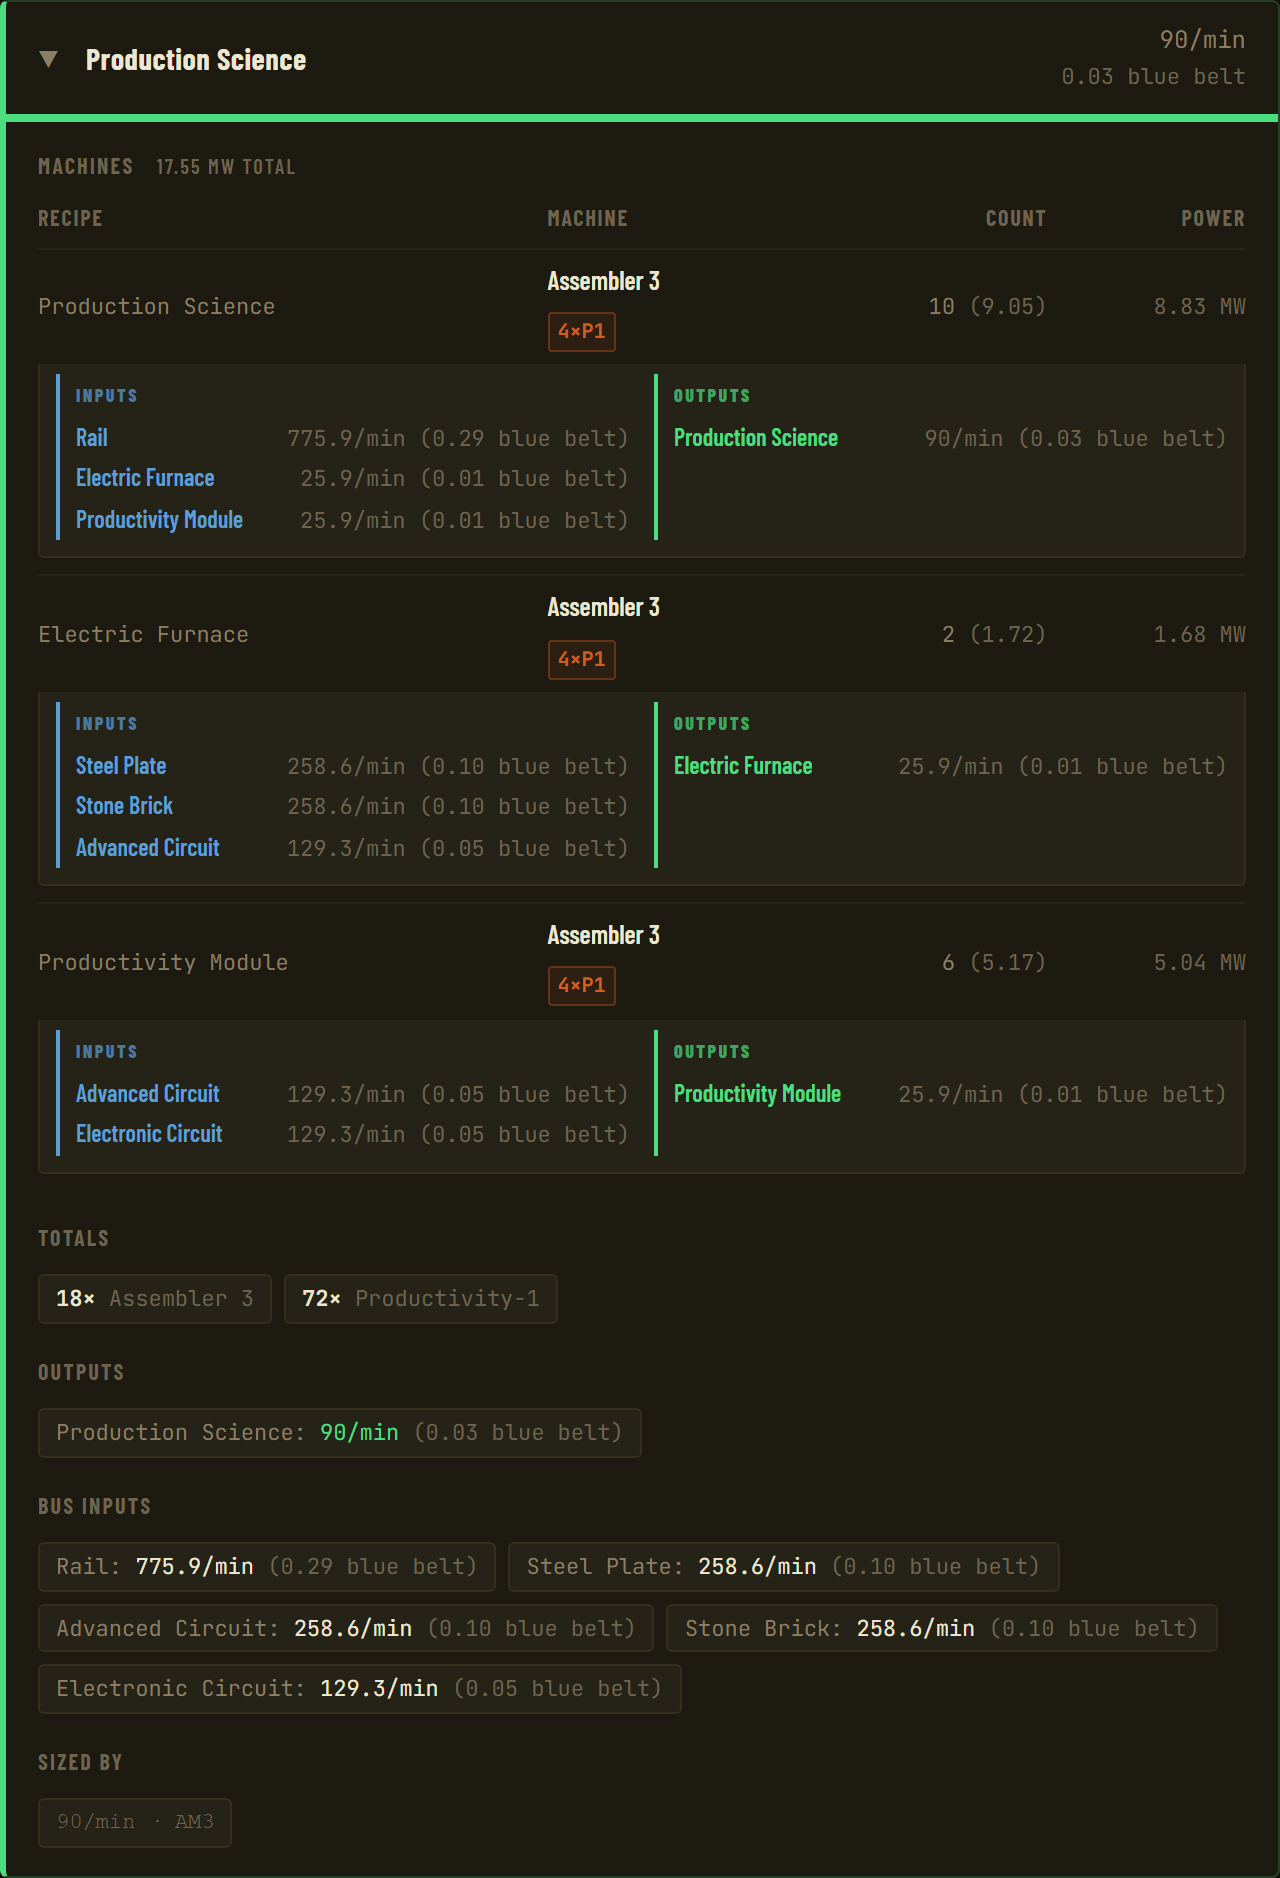
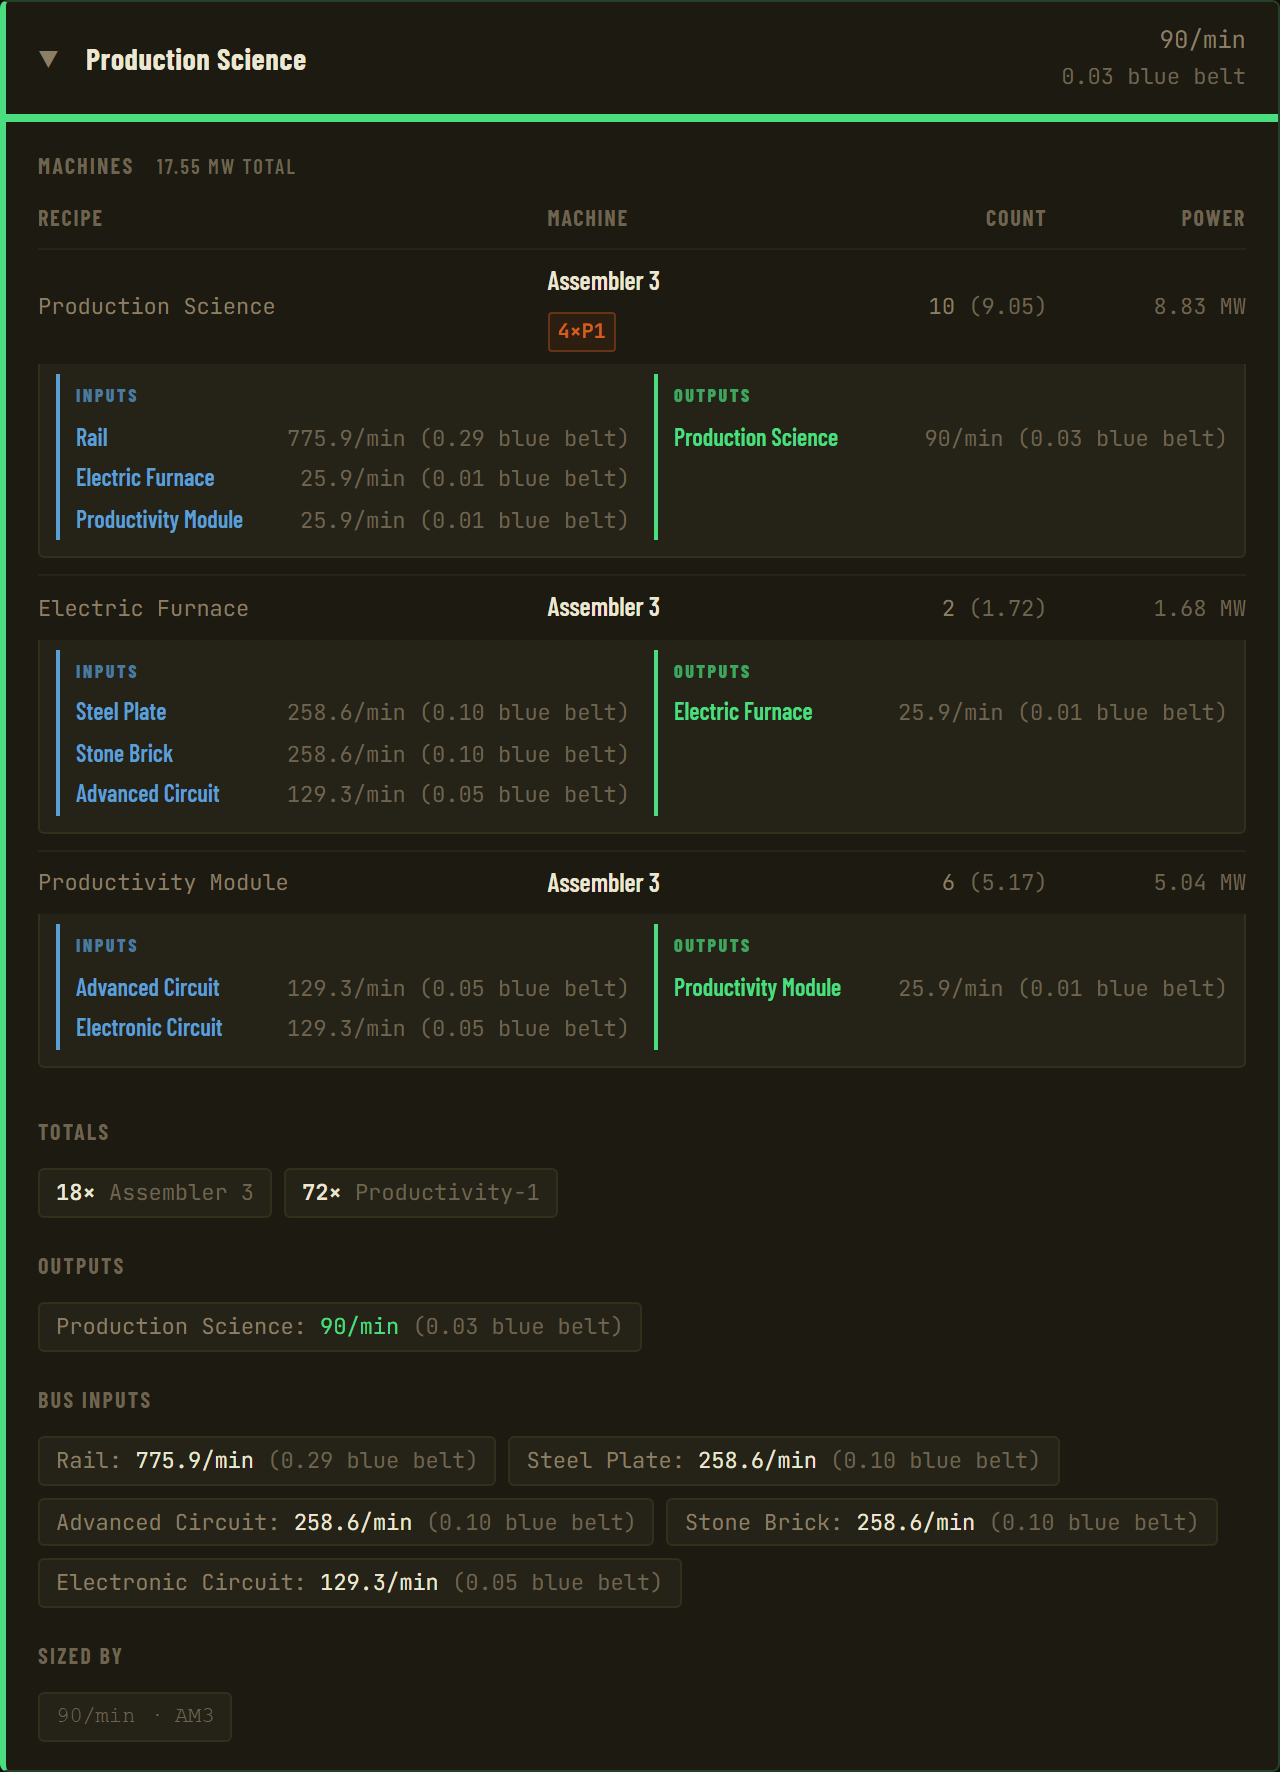
fix(dashboard): render per-step module chips from CLI module_specs
The Lines tab built per-step module chips from the global per-machine
module_configs, so every assembling-machine-3 step showed the configured
prod modules — including recipes with allow_productivity=False (e.g. pipe),
which can't physically hold prod modules. The CLI already strips those and
emits the effective config per step as module_specs; the chip render now
reads that authoritative field instead.

Also make the screenshot quality-combo fixture faithful: it set the global
module_configs but never the per-step module_specs the real CLI emits, so
the new render path would have dropped its chips. And reconfigure
stdout/stderr to UTF-8 in screenshot_tests.py so it stops crashing on the
Windows cp1252 console.

diff --git a/dev/dashboard.html b/dev/dashboard.html
@@ -1663,7 +1663,11 @@ function renderLineCard(line, idx) {
         ? (beaconPow ? `${stepPow} <span style="color:var(--text-dim)">+${beaconPow} beacon</span>` : stepPow)
         : '—';
 
-      const mods    = recModOvr[s.recipe] ?? modCfgs[s.machine]    ?? [];
+      // Use the step's own effective module config (override-resolved AND
+      // allow_productivity-filtered by the CLI) rather than the global
+      // per-machine config — otherwise recipes that can't take prod modules
+      // (e.g. pipe, allow_productivity=False) show phantom prod chips.
+      const mods    = s.module_specs ?? [];
       const beacon  = recBcnOvr[s.recipe] ?? beaconCfgs[s.machine] ?? defaultBcn ?? null;
       const modHtml = mods.filter(m => m.count > 0).map(modChip).join(' ');
       const bcnHtml = beacon ? bcnChip(beacon, housingQ) : '';

diff --git a/10x-factorio-engineer/assets/dashboard.html b/10x-factorio-engineer/assets/dashboard.html
@@ -1526,7 +1526,11 @@ const beaconPow = s.beacon_power_kw > 0 ? fmtPower(s.beacon_power_kw) : null;
 const powCell = stepPow
 ? (beaconPow ? `${stepPow} <span style="color:var(--text-dim)">+${beaconPow} beacon</span>` : stepPow)
 : '—';
-const mods    = recModOvr[s.recipe] ?? modCfgs[s.machine]    ?? [];
+// Use the step's own effective module config (override-resolved AND
+// allow_productivity-filtered by the CLI) rather than the global
+// per-machine config — otherwise recipes that can't take prod modules
+// (e.g. pipe, allow_productivity=False) show phantom prod chips.
+const mods    = s.module_specs ?? [];
 const beacon  = recBcnOvr[s.recipe] ?? beaconCfgs[s.machine] ?? defaultBcn ?? null;
 const modHtml = mods.filter(m => m.count > 0).map(modChip).join(' ');
 const bcnHtml = beacon ? bcnChip(beacon, housingQ) : '';

diff --git a/dev/screenshot_tests.py b/dev/screenshot_tests.py
@@ -26,6 +26,15 @@ import tempfile
 
 from playwright.async_api import async_playwright
 
+# Progress output uses Unicode box-drawing chars (─, →). On Windows the console
+# defaults to cp1252, which can't encode them and crashes the script on print.
+# Force UTF-8 on our streams so the script runs regardless of the console codec.
+for _stream in (sys.stdout, sys.stderr):
+    try:
+        _stream.reconfigure(encoding="utf-8")
+    except (AttributeError, ValueError):
+        pass
+
 DEV_DIR         = os.path.dirname(os.path.abspath(__file__))
 DASHBOARD_SRC   = os.path.join(DEV_DIR, "dashboard.html")
 SCREENSHOTS_DIR = os.path.join(DEV_DIR, "screenshots")
@@ -152,6 +161,10 @@ def make_state(machine_quality: str, beacon_quality: str, with_beacon: bool) -> 
         "power_kw": 600.0,
         "power_kw_ceil": 600.0,
         "beacon_power_kw": beacon_power_kw,
+        # Real CLI emits effective per-step module_specs (electronic-circuit
+        # allows productivity, so the whole config survives). The dashboard now
+        # renders chips from this field, not the global module_configs.
+        "module_specs": MACHINE_MODULE_CONFIGS[machine_quality],
     }
 
     cli_result = {
